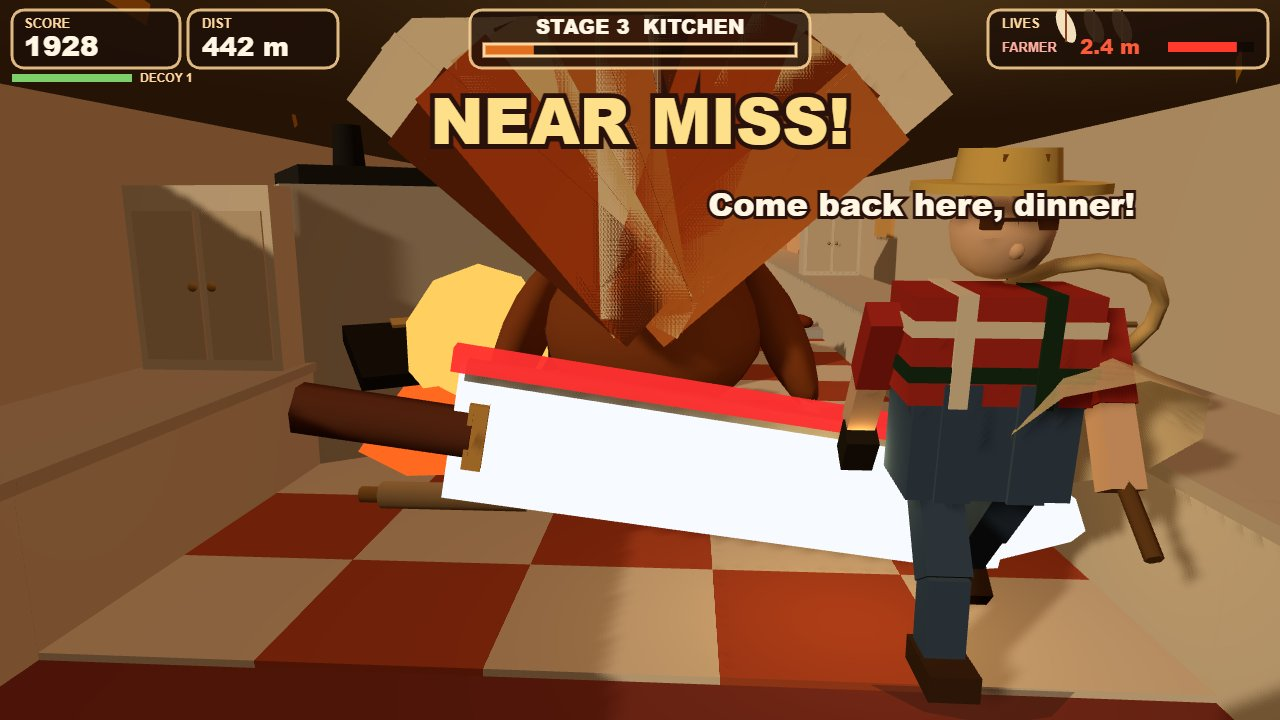
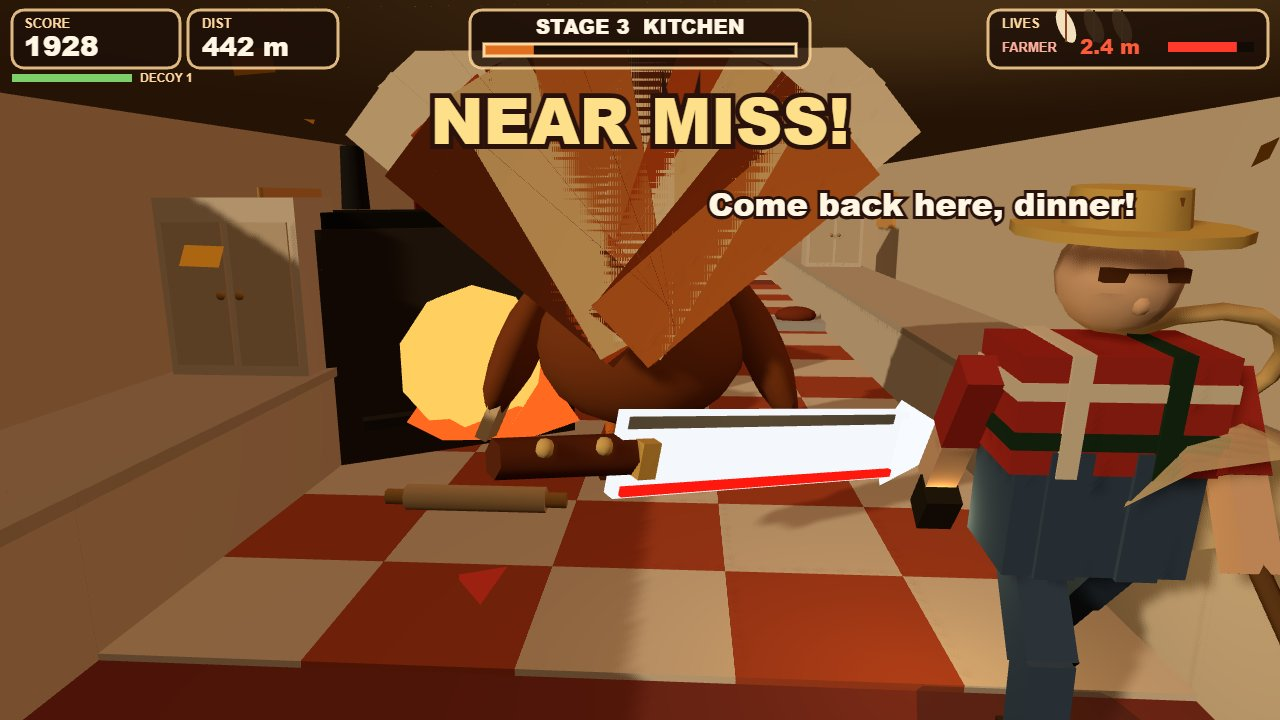
Final polish

diff --git a/game/src/hazards.js b/game/src/hazards.js
@@ -17,18 +17,22 @@ function mesh(geo, color, x, y, z, parent) {
 
 export function makeOven() {
   const g = new THREE.Group();
-  mesh(new THREE.BoxGeometry(1.7, 1.5, 1.15), 0xd8d4cc, 0, 0.75, 0, g);
-  mesh(new THREE.BoxGeometry(1.5, 0.16, 1.05), 0x2a2a2a, 0, 1.52, 0, g);
-  mesh(new THREE.CylinderGeometry(0.08, 0.1, 0.28, 6), 0x222222, -0.4, 1.72, 0, g);
+  mesh(new THREE.BoxGeometry(1.7, 1.5, 1.15), 0x3a342f, 0, 0.75, 0, g);
+  mesh(new THREE.BoxGeometry(1.55, 0.1, 1.08), 0xe7d7c0, 0, 1.28, 0, g);
+  mesh(new THREE.BoxGeometry(1.5, 0.16, 1.05), 0x1c1c1c, 0, 1.52, 0, g);
+  mesh(new THREE.CylinderGeometry(0.08, 0.1, 0.42, 6), 0x222222, -0.45, 1.82, -0.15, g);
+  mesh(new THREE.BoxGeometry(1.15, 0.9, 0.08), 0x1a1a1a, 0, 0.72, 0.5, g);
   const door = new THREE.Group();
-  door.position.set(0, 0.72, 0.58);
+  door.position.set(0, 0.28, 0.58);
   g.add(door);
-  const doorMesh = mesh(new THREE.BoxGeometry(1.2, 0.95, 0.08), 0x2c2c2c, 0, 0, 0, door);
-  mesh(new THREE.BoxGeometry(0.7, 0.28, 0.02), 0xffe08a, 0, 0.1, 0.05, door);
-  mesh(new THREE.CylinderGeometry(0.04, 0.04, 0.16, 6), 0xc0c0c0, 0.42, -0.2, 0.06, door);
-  const fire = mesh(new THREE.ConeGeometry(0.62, 1.05, 7), 0xff6a20, 0, 0.55, 0.95, g);
+  const doorMesh = mesh(new THREE.BoxGeometry(1.22, 0.98, 0.08), 0x3a3a3a, 0, 0.46, 0, door);
+  mesh(new THREE.BoxGeometry(0.72, 0.22, 0.02), 0xffe08a, 0, 0.7, 0.05, door);
+  mesh(new THREE.CylinderGeometry(0.045, 0.045, 0.18, 6), 0xc0c0c0, 0.42, 0.22, 0.07, door);
+  const roast = mesh(new THREE.SphereGeometry(0.28, 8, 6), 0x8a3d18, 0, 0.55, 0.72, g);
+  roast.scale.set(1.3, 0.75, 1);
+  const fire = mesh(new THREE.ConeGeometry(0.55, 0.9, 7), 0xff6a20, 0.15, 0.7, 0.95, g);
   fire.material = new THREE.MeshBasicMaterial({ color: 0xff6a20 });
-  const glow = mesh(new THREE.SphereGeometry(0.4, 6, 5), 0xffd060, 0, 0.7, 1.05, g);
+  const glow = mesh(new THREE.SphereGeometry(0.46, 6, 5), 0xffd060, 0, 0.72, 1.05, g);
   glow.material = new THREE.MeshBasicMaterial({ color: 0xffd060 });
   g.userData.kind = 'oven';
   g.userData.hazard = true;
@@ -38,11 +42,12 @@ export function makeOven() {
     const cycle = (t + (g.userData.phase || 0)) % 3.2;
     const open = cycle > 2.15 && cycle < 3.05;
     const warn = cycle > 1.7 && cycle <= 2.15;
-    door.rotation.x = open ? -1.15 : warn ? -0.25 : 0;
+    door.rotation.x = open ? -1.25 : warn ? -0.28 : 0;
     fire.visible = open;
     glow.visible = open || warn;
-    fire.scale.y = open ? 0.7 + Math.sin(t * 18) * 0.25 : 0.2;
-    doorMesh.material.color.setHex(warn ? 0xff5530 : 0x2c2c2c);
+    roast.visible = open || warn;
+    fire.scale.y = open ? 0.75 + Math.sin(t * 18) * 0.22 : 0.2;
+    doorMesh.material.color.setHex(warn ? 0xff5530 : 0x3a3a3a);
     g.userData.hot = open;
     g.userData.warn = warn;
   };
@@ -54,32 +59,35 @@ export function makeKnife() {
   const g = new THREE.Group();
   const blade = new THREE.Group();
   g.add(blade);
-  const steel = mesh(new THREE.BoxGeometry(2.55, 0.58, 0.08), 0xf4f7fb, 0.35, 0.95, 0, blade);
-  steel.material = new THREE.MeshBasicMaterial({ color: 0xf7fbff });
-  mesh(new THREE.BoxGeometry(2.3, 0.08, 0.1), 0xb7c0cc, 0.25, 1.22, 0, blade);
-  const tip = mesh(new THREE.ConeGeometry(0.3, 0.72, 4), 0xf7fbff, 1.85, 0.95, 0, blade);
+  const steel = mesh(new THREE.BoxGeometry(2.05, 0.42, 0.08), 0xf4f7fb, 0.42, 0.95, 0, blade);
+  steel.material = new THREE.MeshBasicMaterial({ color: 0xf4f7fb });
+  mesh(new THREE.BoxGeometry(1.9, 0.06, 0.09), 0x8b949e, 0.36, 1.12, 0, blade);
+  const edge = mesh(new THREE.BoxGeometry(1.95, 0.045, 0.09), 0xff241c, 0.4, 0.78, 0.02, blade);
+  edge.material = new THREE.MeshBasicMaterial({ color: 0xff241c });
+  const tip = mesh(new THREE.ConeGeometry(0.28, 0.78, 4), 0xf7fbff, 1.78, 0.95, 0, blade);
   tip.rotation.z = -Math.PI / 2;
+  tip.scale.set(1, 1, 0.42);
   tip.material = new THREE.MeshBasicMaterial({ color: 0xf7fbff });
-  const handle = mesh(new THREE.CylinderGeometry(0.11, 0.11, 0.72, 6), 0x6a3a28, -1.2, 0.95, 0, blade);
+  const handle = mesh(new THREE.CylinderGeometry(0.09, 0.1, 0.72, 6), 0x6a341c, -0.86, 0.95, 0, blade);
   handle.rotation.z = Math.PI / 2;
-  mesh(new THREE.BoxGeometry(0.08, 0.28, 0.16), 0xe0b060, -0.82, 0.95, 0, blade);
-  const warn = mesh(new THREE.BoxGeometry(3.1, 0.05, 2.4), 0xff2a2a, 0, 0.07, 0, g);
+  mesh(new THREE.BoxGeometry(0.1, 0.18, 0.22), 0xe8c56a, -0.48, 0.95, 0, blade);
+  mesh(new THREE.SphereGeometry(0.045, 6, 5), 0xf2d48a, -1.02, 1.02, 0.07, blade);
+  mesh(new THREE.SphereGeometry(0.045, 6, 5), 0xf2d48a, -0.72, 1.02, 0.07, blade);
+  const warn = mesh(new THREE.BoxGeometry(2.5, 0.045, 1.35), 0xff2a2a, 0.25, 0.05, 0, g);
   warn.material = new THREE.MeshBasicMaterial({ color: 0xff2020, transparent: true, opacity: 0.0 });
-  const flash = mesh(new THREE.BoxGeometry(2.5, 0.1, 0.12), 0xff3a2a, 0.3, 1.28, 0.08, blade);
-  flash.material = new THREE.MeshBasicMaterial({ color: 0xff3030, transparent: true, opacity: 0.0, depthWrite: false });
   g.userData.kind = 'knife';
   g.userData.hazard = true;
-  g.userData.h = 1.15;
+  g.userData.h = 1.05;
   g.userData.tick = (t) => {
     const cycle = (t + (g.userData.phase || 0)) % 2.6;
     const telegraph = cycle > 1.35 && cycle <= 1.9;
     const slam = cycle > 1.9 && cycle < 2.35;
     const hot = telegraph || slam;
-    const pulse = hot ? 0.62 + Math.sin(t * 30) * 0.22 : 0;
-    warn.material.opacity = pulse * 0.85;
-    flash.material.opacity = slam ? 0.95 : pulse * 0.2;
-    blade.position.y = slam ? 0.05 : 2.15;
-    blade.rotation.z = slam ? -0.18 : 0.55;
+    const pulse = hot ? 0.55 + Math.sin(t * 30) * 0.2 : 0;
+    warn.material.opacity = pulse * 0.9;
+    blade.position.y = slam ? 0.02 : 1.55;
+    blade.rotation.z = slam ? -0.04 : 0.62;
+    edge.material.color.setHex(slam ? 0xff180e : 0xff5544);
     g.userData.hot = slam;
     g.userData.warn = telegraph;
   };
@@ -105,7 +113,7 @@ export function primeShotHazards(root, time, bird) {
     if (kind !== 'oven' && kind !== 'knife') return;
     obj.getWorldPosition(wp);
     const ahead = bird.z - wp.z;
-    if (ahead < -2 || ahead > 18) return;
+    if (ahead < -2 || ahead > 22) return;
     if (kind === 'oven' && ahead < found.ovenD) {
       found.oven = obj;
       found.ovenD = ahead;
@@ -115,10 +123,9 @@ export function primeShotHazards(root, time, bird) {
       found.knifeD = ahead;
     }
   });
-  const parentOf = (obj) => obj.parent;
   const drop = (obj, x, ahead) => {
     if (!obj || !obj.parent) return;
-    const local = parentOf(obj).worldToLocal(new THREE.Vector3(x, 0, bird.z - ahead));
+    const local = obj.parent.worldToLocal(new THREE.Vector3(x, 0, bird.z - ahead));
     obj.position.set(local.x, 0, local.z);
   };
   if (!found.oven || !found.knife) {
@@ -128,16 +135,16 @@ export function primeShotHazards(root, time, bird) {
       if (!found.knife && kind === 'knife') found.knife = obj;
     });
   }
-  drop(found.oven, -2.35, 2.4);
-  drop(found.knife, 0.05, -1.15);
+  drop(found.oven, -2.35, 2.15);
+  drop(found.knife, 0.28, -1.15);
   if (found.oven) {
-    found.oven.scale.setScalar(1.65);
-    found.oven.rotation.y = 0.6;
+    found.oven.scale.setScalar(1.45);
+    found.oven.rotation.y = 0.55;
   }
   if (found.knife) {
-    found.knife.scale.setScalar(1.35);
-    found.knife.rotation.y = 0.15;
-    found.knife.position.y = -0.55;
+    found.knife.scale.setScalar(1.2);
+    found.knife.rotation.set(0.12, 0.62, -0.18);
+    found.knife.position.y = -0.22;
   }
   if (found.oven) found.oven.userData.phase = phaseFor(time, 3.2, 2.55);
   if (found.knife) found.knife.userData.phase = phaseFor(time, 2.6, 2.12);

diff --git a/game/src/main.js b/game/src/main.js
@@ -358,17 +358,17 @@ if (query.name) {
     farmer.state = 'CHASE';
     state.farmerState = 'CHASE';
     state.farmerDist = 2.4;
-    farmer.z = bird.z + 1.85;
-    farmer.x = bird.x + 1.75;
+    farmer.z = bird.z + 2.45;
+    farmer.x = bird.x + 1.95;
     state.hat = 'none';
     turkey.userData.setHat('none');
     bird.sliding = 0;
     bird.grounded = false;
-    bird.y = 0.42;
-    bird.x = 0.15;
+    bird.y = 0.38;
+    bird.x = -0.05;
     bird.pose = 'jump';
-    particles.puffFire(bird.x - 2.1, 1.15, bird.z - 3.5);
-    particles.puffFire(bird.x - 1.5, 0.7, bird.z - 3.1);
+    particles.puffFire(bird.x - 1.7, 1.05, bird.z - 3.4);
+    particles.puffFire(bird.x - 2.2, 0.65, bird.z - 3.7);
     particles.tick(0.016);
   }
   if (query.name === 'end') {

diff --git a/game/src/camera-rig.js b/game/src/camera-rig.js
@@ -15,8 +15,8 @@ export function createCameraRig(camera) {
         desired.set(bird.x + 0.15, 2.55, bird.z + 6.15);
         look.set(bird.x - 0.1, 0.42, bird.z - 2.4);
       } else if (state.shot === 'kitchen') {
-        desired.set(bird.x + 0.25, 2.2, bird.z + 5.5);
-        look.set(bird.x - 0.25, 0.7, bird.z - 2.6);
+        desired.set(bird.x + 0.35, 2.45, bird.z + 5.7);
+        look.set(bird.x - 0.15, 0.72, bird.z - 2.5);
       } else if (state.mode === 'title') {
         desired.set(-0.7, 1.9, -1.6);
         look.set(0.15, 0.7, -8.2);
